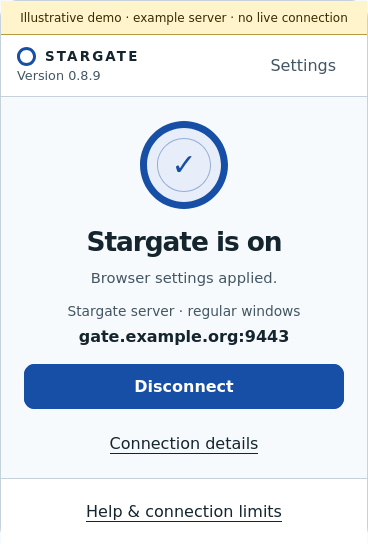
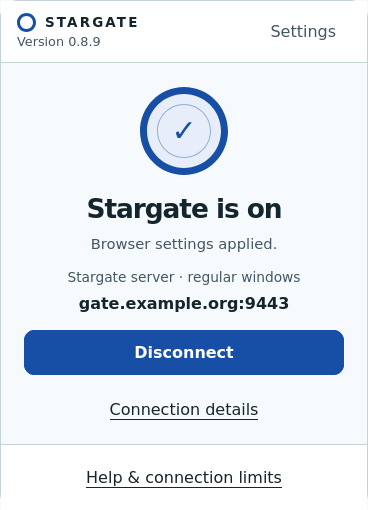
Keep connected illustration disclosures in documentation captions

diff --git a/README.md b/README.md
@@ -72,17 +72,16 @@ Follow the setup steps, then browse from your usual address bar.
 Pick **Clear**, **Stargate** or **Observatory** in **Settings → Appearance**.
 Themes change the look; your saved access and routes stay the same.
 
-The examples below show the connected-state controls with a **fictional server**.
-They are labeled demonstrations, not live connections or network tests.
-
 <table align="center">
   <thead><tr><th>Clear</th><th>Stargate</th><th>Observatory</th></tr></thead>
   <tbody><tr>
-    <td align="center" valign="top"><a href="docs/media/extension/connected-clear.png"><img src="docs/media/extension/connected-clear.png" width="200" alt="Clear theme: illustrative connected state with example server gate.example.org:9443; no live connection"></a></td>
-    <td align="center" valign="top"><a href="docs/media/extension/connected-stargate.png"><img src="docs/media/extension/connected-stargate.png" width="200" alt="Stargate theme: illustrative connected state with example server gate.example.org:9443; no live connection"></a></td>
-    <td align="center" valign="top"><a href="docs/media/extension/connected-observatory.png"><img src="docs/media/extension/connected-observatory.png" width="200" alt="Observatory theme: illustrative connected state with example server gate.example.org:9443; no live connection"></a></td>
+    <td align="center" valign="top"><a href="docs/media/extension/connected-clear.png"><img src="docs/media/extension/connected-clear.png" width="200" alt="Clear theme showing an illustrative connected state with an example server"></a></td>
+    <td align="center" valign="top"><a href="docs/media/extension/connected-stargate.png"><img src="docs/media/extension/connected-stargate.png" width="200" alt="Stargate theme showing an illustrative connected state with an example server"></a></td>
+    <td align="center" valign="top"><a href="docs/media/extension/connected-observatory.png"><img src="docs/media/extension/connected-observatory.png" width="200" alt="Observatory theme showing an illustrative connected state with an example server"></a></td>
   </tr></tbody>
 </table>
+
+*Illustrative connected state using an example address and synthetic data.*
 
 Open **Settings** for appearance, motion and optional features. Advanced mode
 can stay off until you need it.
@@ -104,8 +103,7 @@ A Firefox/Brave quick-start is built in, so the steps are there when you need th
 
 [Follow the setup and find help →](docs/onboarding.md)
 
-*Setup and settings captures show an unpaired browser. Connected-state examples
-use synthetic state and a reserved example address.*
+*Setup and settings show an unpaired browser.*
 
 ## Where your traffic goes
 

diff --git a/docs/user-guide.md b/docs/user-guide.md
@@ -126,11 +126,10 @@ a full tab. The installed version appears in the header of both views.
 | **One network needs attention** | Check that route's observation; other networks may still work. |
 
 <p align="center">
-  <a href="media/extension/connected-stargate.png"><img src="media/extension/connected-stargate.png" width="300" alt="Illustrative Stargate is on popup with example server gate.example.org:9443; no live connection"></a>
+  <a href="media/extension/connected-stargate.png"><img src="media/extension/connected-stargate.png" width="300" alt="Illustrative Stargate is on popup with an example server"></a>
 </p>
 
-*Illustrative connected state with a fictional server; this is not a live
-connection or a network test.*
+*Illustrative connected state using an example address and synthetic data.*
 
 The toolbar icon, badge and tooltip reflect these settings states. They are not
 proof that a destination is reachable. A listening port or a past successful

diff --git a/docs/media/extension/README.md b/docs/media/extension/README.md
@@ -4,9 +4,9 @@ These images illustrate the Firefox 0.8.9 interface. Theme choices change the
 appearance, not the routing behavior.
 
 - `connected-*.png` render the extension UI with synthetic settings state and
-  the reserved example address `https://gate.example.org:9443`. Each image is
-  visibly labeled as an illustrative demo with no live connection. No server
-  was contacted and no access code or device credential is represented.
+  the reserved example address `https://gate.example.org:9443`. Captions identify
+  these as illustrations. No server was contacted and no access code or device
+  credential is represented.
 - `setup-form.png`, `appearance-controls.png` and `ipfs-tool.png` show the signed
   extension in an unpaired browser. Form fields are empty. The IPFS gateway is
   the extension's public default; no content has been opened.

diff --git a/docs/media/readme/README.md b/docs/media/readme/README.md
@@ -16,7 +16,7 @@ show 0.8.8 in Brave 1.98.60 before pairing. They illustrate controls, not networ
 access or a completed accessibility audit.
 
 The README also uses [shared extension illustrations](../extension/README.md),
-including visibly labeled connected-state demos with a reserved example address.
+including captioned connected-state illustrations with a reserved example address.
 
 Project artwork and UI screenshots use Apache-2.0. Font-derived outlines retain
 the [DejaVu/Bitstream notice](DejaVu-LICENSE.txt); no font file is bundled.
